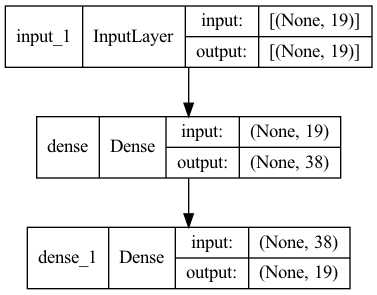
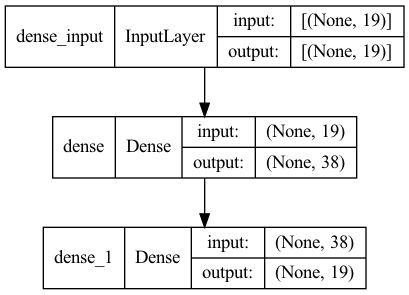
minor updates

diff --git a/Utils.py b/Utils.py
@@ -59,8 +59,6 @@ def wordStringToVector(word: str, dim: int):
 
     if dim < wordLength:
         raise Exception("dim cannot be lower than the length of the word")
-    elif dim <= 0:
-        raise Exception("dim cannot be less than or equal to 0")
 
     vector = [0] * dim
     for i in range(wordLength):
@@ -73,12 +71,10 @@ def wordStringToVector(word: str, dim: int):
 def intToVector(val: int, dim: int):
     """Transform an integer into a vector of dimension `dim` by setting each value in the vector to 0 except for a value of 1 in the dimension equal to `val` (note: dimensions are 0-indexed)."""
 
-    if dim <= val:
-        raise Exception("dim cannot be less than or equal to val (note: `dim` is the number of dimensions in the resulting array and dimensions are 0-indexed)")
-    elif val < 0:
+    if val < 0:
         raise Exception("val cannot be negative")
-    elif dim <= 0:
-        raise Exception("dim cannot be less than or equal to 0")
+    elif dim <= val:
+        raise Exception("dim cannot be less than or equal to val (note: `dim` is the number of dimensions in the resulting array and dimensions are 0-indexed)")
 
     vector = [0] * dim
     vector[val] = 1
@@ -88,7 +84,8 @@ def intToVector(val: int, dim: int):
 
 
 def noramlizeWordVector(word: np.ndarray, minCharValue: int, maxCharValue: int):
-    """Normalizes a word vector so that all values are within the range [0, 1].
+    """
+    Normalizes a word vector so that all values are within the range [0, 1].
 
     Parameters:
         word (numpy array): The unnormalized vector representation of a word
@@ -104,7 +101,8 @@ def noramlizeWordVector(word: np.ndarray, minCharValue: int, maxCharValue: int):
 
 
 def normalizedWordVectorToString(word: np.ndarray, minCharValue: int, maxCharValue: int):
-    """Returns the string representation of a normalized word vector
+    """
+    Returns the string representation of a normalized word vector
 
     Parameters:
         word (numpy array): The normalized vector representation of a word
@@ -122,7 +120,8 @@ def normalizedWordVectorToString(word: np.ndarray, minCharValue: int, maxCharVal
 
 
 def distanceBetweenVectors(vector1: np.ndarray, vector2: np.ndarray, minCharValue: int, maxCharValue: int):
-    """This function takes in normalized vectors as parameters and returns the Euclidean distance between their unnormalized equivalents.
+    """
+    This function takes in normalized vectors as parameters and returns the Euclidean distance between their unnormalized equivalents.
 
     Parameters:
         vector1 (numpy array): The normalized vector representation of a word
@@ -145,15 +144,15 @@ def distanceBetweenVectors(vector1: np.ndarray, vector2: np.ndarray, minCharValu
 def partOfSpeechVectorToInt(vector: np.ndarray):
     """Converts a part-of-speech vector into its integer representation."""
 
-    maxVal = -1000000000.0
-    maxValIndex = -1
+    if np.size(vector) == 0:
+        raise Exception("vector is empty")
 
-    for i in range(len(vector)):
+    maxVal = vector[0]
+    maxValIndex = 0
+
+    for i in range(1, len(vector)):
         if vector[i] > maxVal:
             maxVal = vector[i]
             maxValIndex = i
     
-    if maxValIndex == -1:
-        raise Exception("Function partOfSpeechVectorToInt: Unknown error occured")
-    else:
-        return maxValIndex
+    return maxValIndex

diff --git a/Lemmatization.py b/Lemmatization.py
@@ -1,6 +1,7 @@
 import mysql.connector
 import numpy as np
 import random
+import statistics
 import tensorflow as tf
 from tensorflow import keras
 from keras import layers
@@ -67,7 +68,6 @@ lengthOfTestingSet = len(spellingsTestingSet)
 
 # Make the model
 model = keras.Sequential([
-    keras.Input(shape=(maxWordLength)),
     keras.layers.Dense(maxWordLength * 2, activation=activations.relu),
     keras.layers.Dense(maxWordLength, activation=activations.relu)
 ])
@@ -76,15 +76,6 @@ model = keras.Sequential([
 model.compile(
     optimizer=keras.optimizers.Adam(learning_rate=0.005),
     loss=keras.losses.MeanSquaredError(),
-    metrics=[keras.metrics.Accuracy()]
-)
-
-# Make a plot of the model
-plot_model(
-    model,
-    to_file="ModelPlots/LemmatizationModel.png",
-    show_shapes=True,
-    show_layer_names=True
 )
 
 # Fit the data
@@ -96,28 +87,25 @@ model.fit(
     epochs=25
 )
 
+# Make a plot of the model
+plot_model(
+    model,
+    to_file="ModelPlots/LemmatizationModel.png",
+    show_shapes=True,
+    show_layer_names=True
+)
+
 # Evaluate the model
-scores = model.evaluate(spellingsTestingSet, headwordsTestingSet)
-print("\nAccuracy: %.3f%%\n" % (scores[1] * 100))
 modelOutput = model.call(tf.convert_to_tensor(spellingsTestingSet), training=False).numpy()
 
-
 # Calculate the minimum and average distances between vectors
-minDistance = 1000000000.0
-minDistanceIndex = -1
-averageDistance = 0.0
-for i in range(lengthOfTestingSet):
-    distance = Utils.distanceBetweenVectors(headwordsTestingSet[i], modelOutput[i], minCharValue, maxCharValue)
-    averageDistance += distance
-    if distance < minDistance:
-        minDistance = distance
+distances = [Utils.distanceBetweenVectors(headwordsTestingSet[i], modelOutput[i], minCharValue, maxCharValue) for i in range(lengthOfTestingSet)]
+minDistance = distances[0]
+minDistanceIndex = 0
+for i in range(1, lengthOfTestingSet):
+    if distances[i] < minDistance:
+        minDistance = distances[i]
         minDistanceIndex = i
-averageDistance = averageDistance / lengthOfTestingSet
-
-print("Result with the minimum distance:")
-print("Spelling:\t" + Utils.normalizedWordVectorToString(spellingsTestingSet[minDistanceIndex], minCharValue, maxCharValue))
-print("Headword:\t" + Utils.normalizedWordVectorToString(headwordsTestingSet[minDistanceIndex], minCharValue, maxCharValue))
-print("Model output:\t" + Utils.normalizedWordVectorToString(modelOutput[minDistanceIndex], minCharValue, maxCharValue))
-print("Distance:\t%.3f" % (minDistance))
-
-print("\n\nAverage distance: %.3f" % (averageDistance))
+averageDistance = statistics.mean(distances)
+stdevDistance = statistics.stdev(distances)
+print("\n\nDistance: %.3f +/- %.3f" % (averageDistance, stdevDistance))

diff --git a/PartOfSpeechTagging.py b/PartOfSpeechTagging.py
@@ -91,7 +91,6 @@ lengthOfTestingSet = len(headwordsTestingSet)
 
 # Make the model
 model = keras.Sequential([
-    keras.Input(shape=(maxWordLength)),
     keras.layers.Dense(maxWordLength * 2, activation=activations.relu),
     keras.layers.Dense(maxWordLength, activation=activations.relu),
     keras.layers.Dense(numPartsOfSpeech, activation=activations.relu)
@@ -103,14 +102,6 @@ model.compile(
     loss=tf.keras.losses.CategoricalCrossentropy(),
 )
 
-# Make a plot of the model
-plot_model(
-    model,
-    to_file="ModelPlots/PartOfSpeechAnalysisModel.png",
-    show_shapes=True,
-    show_layer_names=True
-)
-
 # Fit the data
 model.fit(
     headwordsTrainingSet,
@@ -118,6 +109,14 @@ model.fit(
     validation_data=(headwordsValidationSet, partsOfSpeechValidationSet),
     batch_size=16,
     epochs=25
+)
+
+# Make a plot of the model
+plot_model(
+    model,
+    to_file="ModelPlots/PartOfSpeechTaggingModel.png",
+    show_shapes=True,
+    show_layer_names=True
 )
 
 
